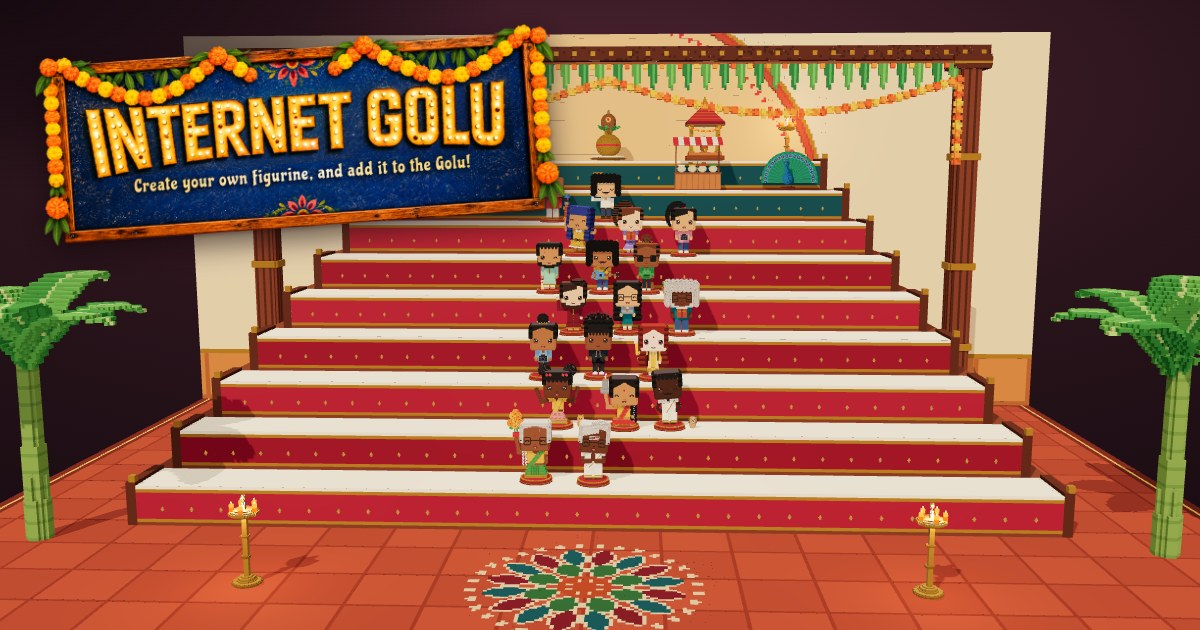
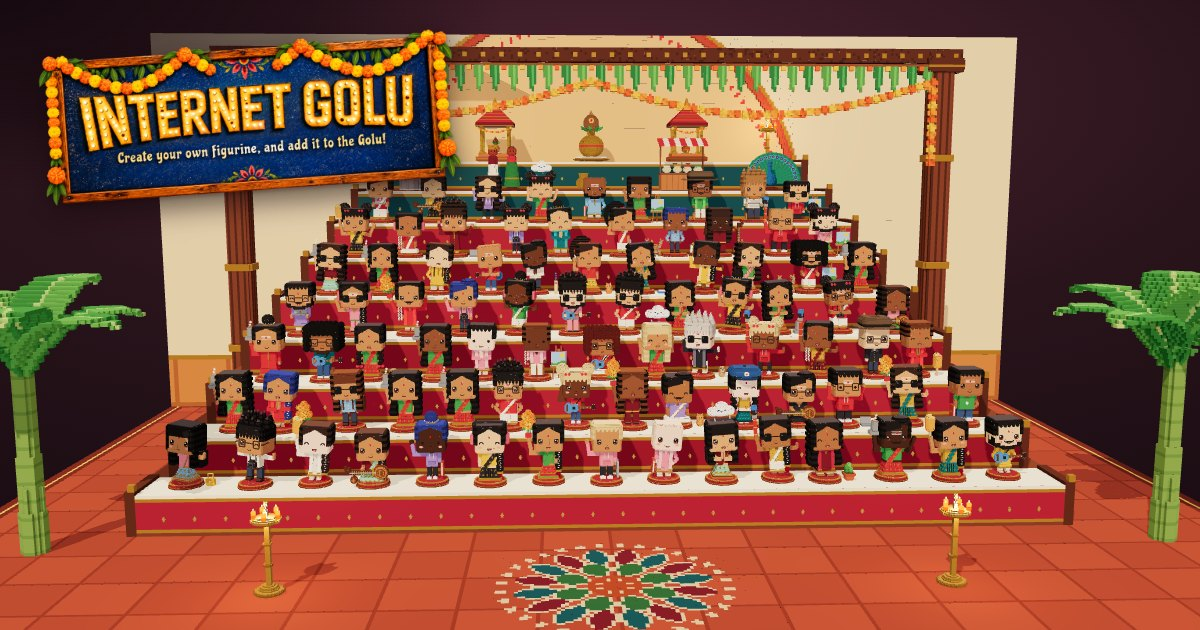
Show a full Golu on the link preview card
public/og.jpg is re-rendered from the live scene with Golu 1 exactly as
it stands now: all 84 spots on steps 1-7 taken by the Bommais people
added (recipes only, no names). The signboard sits top-left as before,
a little smaller so the top rows stay in view.

The card's URL gets ?v=2 so apps that cached the old card fetch the new
one.

Claude-Session: https://claude.ai/code/session_01MYbqJ1XRUEpMLiAGSxbsHw

diff --git a/index.html b/index.html
@@ -17,16 +17,16 @@
     <meta property="og:title" content="The Internet Golu" />
     <meta property="og:description" content="Create your own figurine, and add it to the Golu! A Navaratri Golu that anyone on the internet can join." />
     <meta property="og:url" content="https://internet-golu.vercel.app/" />
-    <meta property="og:image" content="https://internet-golu.vercel.app/og.jpg" />
+    <meta property="og:image" content="https://internet-golu.vercel.app/og.jpg?v=2" />
     <meta property="og:image:type" content="image/jpeg" />
     <meta property="og:image:width" content="1200" />
     <meta property="og:image:height" content="630" />
-    <meta property="og:image:alt" content="The Internet Golu signboard over a nine-step Golu full of little voxel figurines" />
+    <meta property="og:image:alt" content="The Internet Golu signboard over a nine-step Golu filled with little voxel figurines on every spot" />
     <meta name="twitter:card" content="summary_large_image" />
     <meta name="twitter:title" content="The Internet Golu" />
     <meta name="twitter:description" content="Create your own figurine, and add it to the Golu!" />
-    <meta name="twitter:image" content="https://internet-golu.vercel.app/og.jpg" />
-    <meta name="twitter:image:alt" content="The Internet Golu signboard over a nine-step Golu full of little voxel figurines" />
+    <meta name="twitter:image" content="https://internet-golu.vercel.app/og.jpg?v=2" />
+    <meta name="twitter:image:alt" content="The Internet Golu signboard over a nine-step Golu filled with little voxel figurines on every spot" />
     <link rel="preconnect" href="https://fonts.googleapis.com" />
     <link rel="preconnect" href="https://fonts.gstatic.com" crossorigin />
     <link href="https://fonts.googleapis.com/css2?family=Unbounded:wght@500;700;800&family=DM+Sans:opsz,wght@9..40,400;9..40,500;9..40,700&display=swap" rel="stylesheet" />
